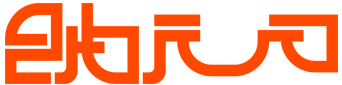
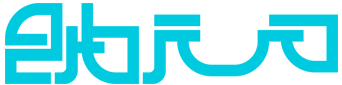
Change color theme to blue

diff --git a/css/style.css b/css/style.css
@@ -1,5 +1,5 @@
 :root {
-    --color-primary: #ff4800;
+    --color-primary: #00cae0;
     --color-surface: #e7e6ed;
     --color-black: #000;
 }
